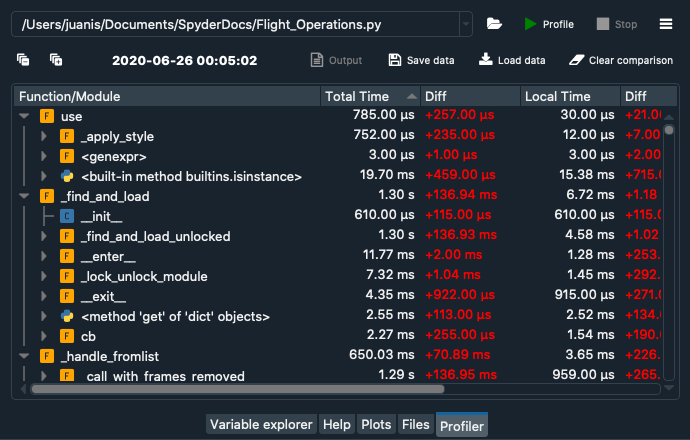
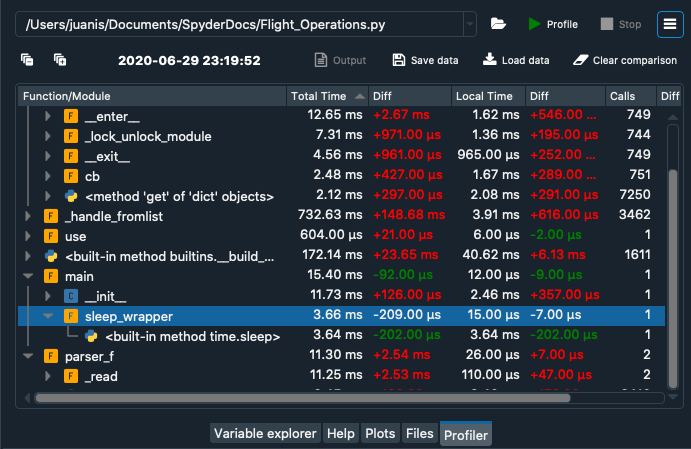
Fix standard and comparisson screenshots, add profiler plugins screenshots

diff --git a/doc/profiler.rst b/doc/profiler.rst
@@ -80,9 +80,9 @@ Finally, the numbers in the :guilabel:`Diff` columns for each of the three appea
 
 |
 
-For example, suppose you ran the :guilabel:`Profiler` on a file calling a function ``print_wrapper()`` that in turn called the ``print()`` function, and the ``print_wrapper()`` function took a total of 3 ms to run, with 2 ms of that spent executing the ``print()`` function inside it.
-Therefore, if ``print()`` called nothing else itself, its :guilabel:`Total Time` and :guilabel:`Local Time` would both be identical, at 2 ms.
-Meanwhile, :guilabel:`Total Time` for ``print_wrapper()`` would be 3 ms, but :guilabel:`Local Time` only 1 ms as the rest of that time was spend inside the ``print()`` function it called.
+For example, suppose you ran the :guilabel:`Profiler` on a file calling a function ``sleep_wrapper()`` that in turn called the ``sleep()`` function, and the ``sleep_wrapper()`` function took a total of 3.66 ms to run, with 3.64 ms of that spent executing the ``sleep()`` function inside it.
+Therefore, if ``sleep()`` called nothing else itself, its :guilabel:`Total Time` and :guilabel:`Local Time` would both be identical, at 3.64 ms.
+Meanwhile, :guilabel:`Total Time` for ``sleep_wrapper()`` would be 3.66 ms, but :guilabel:`Local Time` only 0.02 ms as the rest of that time was spend inside the ``sleep()`` function it called.
 
 
 
@@ -96,10 +96,20 @@ To learn more, visit the `spyder-line-profiler git repository`_.
 
 .. _spyder-line-profiler git repository: https://github.com/spyder-ide/spyder-line-profiler
 
+.. image:: images/profiler/profiler-line-profiler.png
+   :alt: Spyder Profiler pane, displaying a list of functions and their execution time
+
+|
+
 Second, Spyder Memory Profiler measures the memory usage of your code. 
 For more information, go to the `spyder-memory-profiler git repository`_.
 
 .. _spyder-memory-profiler git repository: https://github.com/spyder-ide/spyder-memory-profiler
+
+.. image:: images/profiler/profiler-memory-profiler.png
+   :alt: Spyder Profiler pane, displaying a list of functions and their execution time
+
+|
 
 
 Related components
